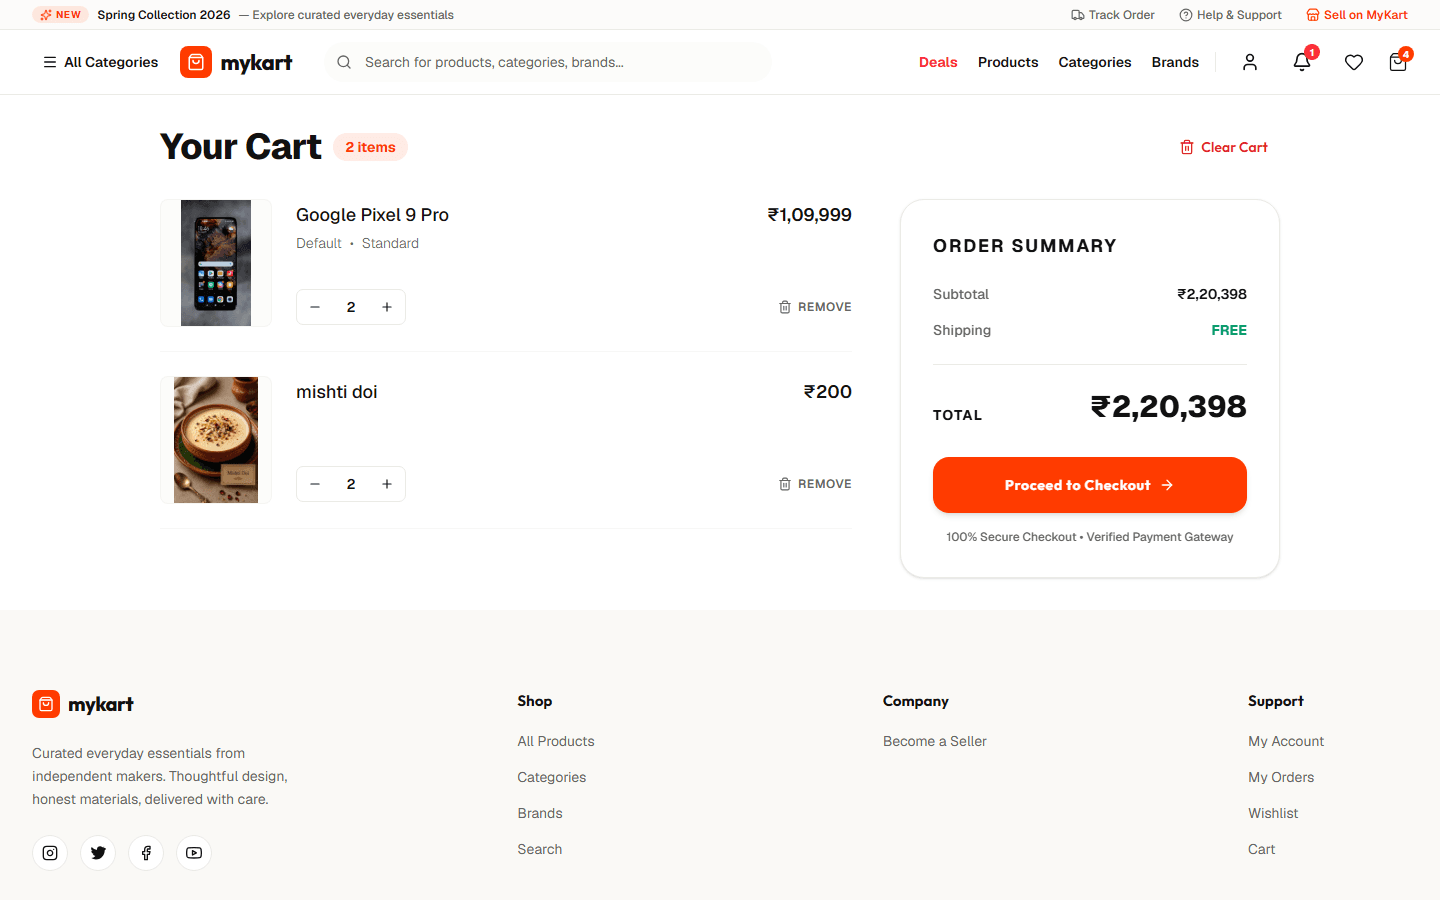
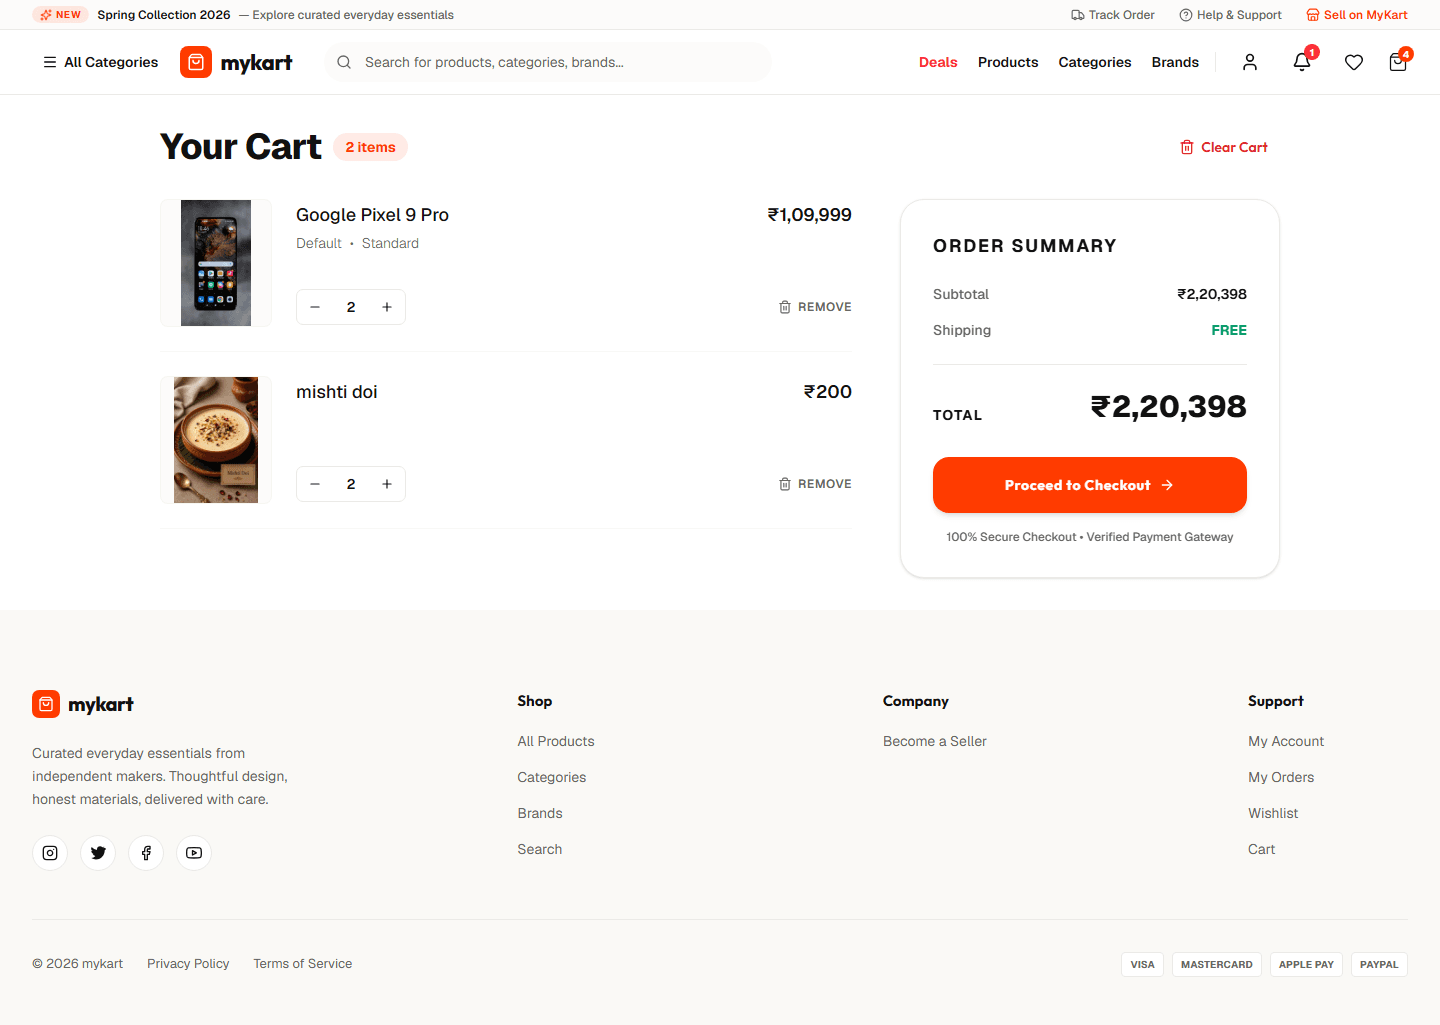
fix: resolve broken product/category images, full-page checkout/cart/search screenshots, and PDP layout gap

diff --git a/apps/web/src/app/seller/page.tsx b/apps/web/src/app/seller/page.tsx
@@ -4,6 +4,7 @@ import { getProfile } from '@/lib/api/users';
 import Link from 'next/link';
 import { Button } from '@/components/ui/button';
 import { redirect } from 'next/navigation';
+import { ProductImage } from '@/components/ui/ProductImage';
 import { Package, ShoppingCart, Store, ArrowRight, BarChart3, TrendingUp, AlertTriangle } from 'lucide-react';
 import * as motion from 'framer-motion/client';
 
@@ -142,10 +143,20 @@ export default async function SellerDashboardPage() {
             ) : (
               <div className="grid grid-cols-1 sm:grid-cols-2 md:grid-cols-3 gap-6">
                 {recentProducts.map((p: any) => (
-                  <div key={p.id} className="border border-border/40 p-4 hover:shadow-lg transition-shadow bg-card">
-                    <p className="text-xs text-foreground/50 mb-1">{p.status}</p>
-                    <p className="font-medium truncate mb-2">{p.name}</p>
-                    <p className="text-lg mb-4">₹{parseFloat(p.basePrice).toFixed(2)}</p>
+                  <div key={p.id} className="border border-border/40 p-4 hover:shadow-lg transition-shadow bg-card flex flex-col justify-between">
+                    <div>
+                      <div className="relative w-full h-36 mb-3 rounded-lg overflow-hidden bg-muted/30">
+                        <ProductImage
+                          src={p.images?.[0]?.url || p.imageUrl}
+                          alt={p.name}
+                          fill
+                          className="object-cover"
+                        />
+                      </div>
+                      <p className="text-xs text-foreground/50 mb-1">{p.status}</p>
+                      <p className="font-medium truncate mb-1">{p.name}</p>
+                      <p className="text-base font-semibold mb-3">₹{parseFloat(p.basePrice).toFixed(2)}</p>
+                    </div>
                     <Link href={`/seller/products/${p.slug}/edit`}>
                       <Button variant="outline" className="w-full text-xs h-8">Edit Product</Button>
                     </Link>

diff --git a/apps/api/seed-data.ts b/apps/api/seed-data.ts
@@ -735,7 +735,7 @@ async function main() {
 
   // Map other fakes to match categories/brands safely
   const imageFallbackMap: Record<string, string> = {
-    laptops: 'https://images.unsplash.com/photo-1496181130204-755241544e35?w=800',
+    laptops: 'https://images.unsplash.com/photo-1496181133206-80ce9b88a853?w=800',
     smartphones: 'https://images.unsplash.com/photo-1511707171634-5f897ff02aa9?w=800',
     tablets: 'https://images.unsplash.com/photo-1544244015-0df4b3ffc6b0?w=800',
     smartwatches: 'https://images.unsplash.com/photo-1508685096489-7aacd43bd3b1?w=800',
@@ -760,7 +760,7 @@ async function main() {
     skincare: 'https://images.unsplash.com/photo-1556228720-195a672e8a03?w=800',
     haircare: 'https://images.unsplash.com/photo-1522337360788-8b13dee7a37e?w=800',
     makeup: 'https://images.unsplash.com/photo-1522337360788-8b13dee7a37e?w=800',
-    grooming: 'https://images.unsplash.com/photo-1621607511815-68424fec745f?w=800',
+    grooming: 'https://images.unsplash.com/photo-1503951914875-452162b0f3f1?w=800',
     fragrances: 'https://images.unsplash.com/photo-1541643600914-78b084683601?w=800',
     'fitness-equipment': 'https://images.unsplash.com/photo-1517838277536-f5f99be501cd?w=800',
     'sports-shoes': 'https://images.unsplash.com/photo-1542291026-7eec264c27ff?w=800',
@@ -772,7 +772,7 @@ async function main() {
     fiction: 'https://images.unsplash.com/photo-1544947950-fa07a98d237f?w=800',
     'self-help': 'https://images.unsplash.com/photo-1544947950-fa07a98d237f?w=800',
     academic: 'https://images.unsplash.com/photo-1544947950-fa07a98d237f?w=800',
-    snacks: 'https://images.unsplash.com/photo-1599490659223-eb5222decbaf?w=800',
+    snacks: 'https://images.unsplash.com/photo-1566478989037-eec170784d0b?w=800',
     beverages: 'https://images.unsplash.com/photo-1542838132-92c53300491e?w=800',
     'packaged-foods': 'https://images.unsplash.com/photo-1542838132-92c53300491e?w=800',
     'household-essentials': 'https://images.unsplash.com/photo-1583947581924-860bda6a26df?w=800',

diff --git a/apps/web/src/components/marketing/featured-categories.tsx b/apps/web/src/components/marketing/featured-categories.tsx
@@ -18,7 +18,11 @@ const cover: Record<string, string> = {
     'https://images.unsplash.com/photo-1498049794561-7780e7231661?q=80&w=1200&auto=format&fit=crop',
   mobiles:
     'https://images.unsplash.com/photo-1511707171634-5f897ff02aa9?q=80&w=1200&auto=format&fit=crop',
+  smartphones:
+    'https://images.unsplash.com/photo-1511707171634-5f897ff02aa9?q=80&w=1200&auto=format&fit=crop',
   'laptops-computers':
+    'https://images.unsplash.com/photo-1496181133206-80ce9b88a853?q=80&w=1200&auto=format&fit=crop',
+  laptops:
     'https://images.unsplash.com/photo-1496181133206-80ce9b88a853?q=80&w=1200&auto=format&fit=crop',
   fashion:
     'https://images.unsplash.com/photo-1445205170230-053b83016050?q=80&w=1200&auto=format&fit=crop',
@@ -26,14 +30,20 @@ const cover: Record<string, string> = {
     'https://images.unsplash.com/photo-1556911220-bff31c812dba?q=80&w=1200&auto=format&fit=crop',
   beauty:
     'https://images.unsplash.com/photo-1596462502278-27bfdc403348?q=80&w=1200&auto=format&fit=crop',
+  'beauty-personal-care':
+    'https://images.unsplash.com/photo-1596462502278-27bfdc403348?q=80&w=1200&auto=format&fit=crop',
   grocery:
     'https://images.unsplash.com/photo-1542838132-92c53300491e?q=80&w=1200&auto=format&fit=crop',
   sports:
+    'https://images.unsplash.com/photo-1461896836934-ffe607ba8211?q=80&w=1200&auto=format&fit=crop',
+  'sports-fitness':
     'https://images.unsplash.com/photo-1461896836934-ffe607ba8211?q=80&w=1200&auto=format&fit=crop',
   books:
     'https://images.unsplash.com/photo-1481627834876-b7833e8f5570?q=80&w=1200&auto=format&fit=crop',
   toys:
     'https://images.unsplash.com/photo-1558060370-d644479cb6f7?q=80&w=1200&auto=format&fit=crop',
+  gaming:
+    'https://images.unsplash.com/photo-1606813907291-d86efa9b94db?q=80&w=1200&auto=format&fit=crop',
   'home-decor':
     'https://images.unsplash.com/photo-1513694203232-719a280e022f?q=80&w=1200&auto=format&fit=crop',
   accessories:

diff --git a/apps/api/src/modules/admin/admin.service.ts b/apps/api/src/modules/admin/admin.service.ts
@@ -926,7 +926,7 @@ export class AdminService implements OnModuleInit {
         count: 389,
         cat: 'laptops',
         brand: 'acer',
-        img: 'https://images.unsplash.com/photo-1496181130204-755241544e35?w=800',
+        img: 'https://images.unsplash.com/photo-1496181133206-80ce9b88a853?w=800',
         sku: 'ACER-SG14',
         stock: 20,
       },
@@ -1094,7 +1094,7 @@ export class AdminService implements OnModuleInit {
         count: 201,
         cat: 'smartphones',
         brand: 'asus',
-        img: 'https://images.unsplash.com/photo-1574944985070-8f30c4397e3c?w=800',
+        img: 'https://images.unsplash.com/photo-1511707171634-5f897ff02aa9?w=800',
         sku: 'ZF10-256',
         stock: 8,
       },
@@ -1262,7 +1262,7 @@ export class AdminService implements OnModuleInit {
         count: 380,
         cat: 'cameras',
         brand: 'sony',
-        img: 'https://images.unsplash.com/photo-1512790182412-b19e6d611397?w=800',
+        img: 'https://images.unsplash.com/photo-1516035069371-29a1b244cc32?w=800',
         sku: 'SONY-A6700',
         stock: 4,
       },
@@ -1920,7 +1920,7 @@ export class AdminService implements OnModuleInit {
         count: 1023,
         cat: 'grooming',
         brand: 'philips',
-        img: 'https://images.unsplash.com/photo-1621607511815-68424fec745f?w=800',
+        img: 'https://images.unsplash.com/photo-1503951914875-452162b0f3f1?w=800',
         sku: 'PH-ONEBLADE',
         stock: 50,
       },
@@ -2186,7 +2186,7 @@ export class AdminService implements OnModuleInit {
         count: 2100,
         cat: 'snacks',
         brand: 'too-yumm',
-        img: 'https://images.unsplash.com/photo-1599490659223-eb5222decbaf?w=800',
+        img: 'https://images.unsplash.com/photo-1566478989037-eec170784d0b?w=800',
         sku: 'TYUM-MULTI-35G',
         stock: 200,
       },

diff --git a/apps/web/src/app/products/[slug]/page.tsx b/apps/web/src/app/products/[slug]/page.tsx
@@ -157,12 +157,12 @@ export default async function ProductDetailPage({
       </div>
       
       {/* Product Reviews */}
-      <div id="reviews" className="mt-24 pt-12 border-t border-border/50">
+      <div id="reviews" className="mt-10 pt-8 border-t border-border/50">
         <ProductReviews productId={product.id} productSlug={product.slug} />
       </div>
 
       {/* Related Products */}
-      <div className="mt-24 pt-12 border-t border-border/50">
+      <div className="mt-12 pt-8 border-t border-border/50">
         <h2 className="text-2xl font-bold tracking-tight mb-8">Related Products</h2>
         <ProductGrid products={relatedProducts} meta={undefined} searchParams={{}} />
       </div>
